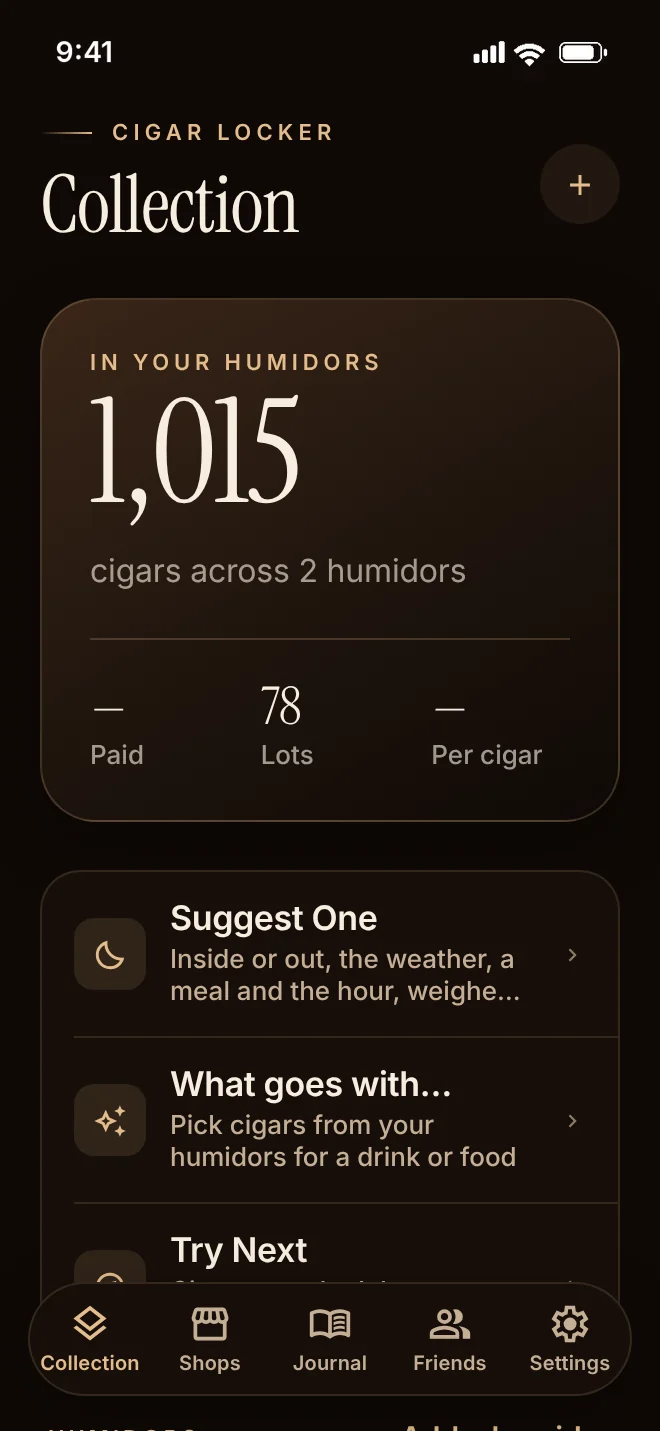
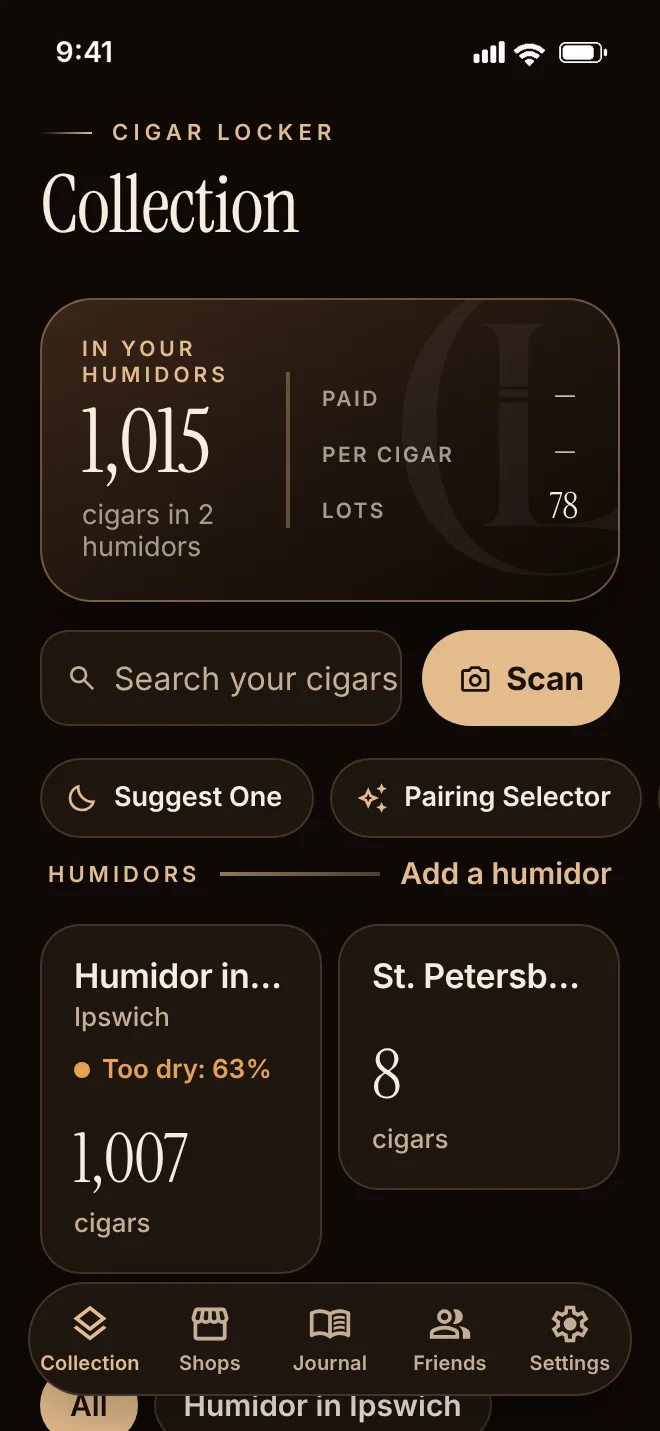
The app's pictures retaken with photos on the cigars
Claude-Session: https://claude.ai/code/session_01Cxm2QUaSCzCSzNGBt6UwNb

diff --git a/app/_expo/static/js/web/entry-5f34cbb5b40b486dd88105f8234cc167.js b/app/_expo/static/js/web/entry-5f34cbb5b40b486dd88105f8234cc167.js
@@ -17,7 +17,7 @@ __d(function(g,r,i,a,m,e,d){
    */
 "use strict";var n=Symbol.for("react.transitional.element"),t=Symbol.for("react.fragment");function o(t,o,f){var l=null;if(void 0!==f&&(l=""+f),void 0!==o.key&&(l=""+o.key),"key"in o)for(var y in f={},o)"key"!==y&&(f[y]=o[y]);else f=o;return o=f.ref,{$$typeof:n,type:t,key:l,ref:void 0!==o?o:null,props:f}}e.Fragment=t,e.jsx=o,e.jsxs=o},7,[]);
 __d(function(g,r,i,a,m,e,d){"use strict";Object.defineProperty(e,'__esModule',{value:!0}),Object.defineProperty(e,"ctx",{enumerable:!0,get:function(){return t}});const t=r(d[0])},8,[9]);
-__d(function(g,r,i,a,m,e,d){const t=Object.defineProperties({},{"./(tabs)/_layout.tsx":{enumerable:!0,get:()=>r(d[1])(d[0],d.paths)},"./(tabs)/_layout.web.tsx":{enumerable:!0,get:()=>r(d[1])(d[2],d.paths)},"./(tabs)/friends.tsx":{enumerable:!0,get:()=>r(d[1])(d[3],d.paths)},"./(tabs)/index.tsx":{enumerable:!0,get:()=>r(d[1])(d[4],d.paths)},"./(tabs)/journal.tsx":{enumerable:!0,get:()=>r(d[1])(d[5],d.paths)},"./(tabs)/settings.tsx":{enumerable:!0,get:()=>r(d[1])(d[6],d.paths)},"./(tabs)/shops.tsx":{enumerable:!0,get:()=>r(d[1])(d[7],d.paths)},"./_layout.tsx":{enumerable:!0,get:()=>r(d[1])(d[8],d.paths)},"./account.tsx":{enumerable:!0,get:()=>r(d[1])(d[9],d.paths)},"./alerts.tsx":{enumerable:!0,get:()=>r(d[1])(d[10],d.paths)},"./ask.tsx":{enumerable:!0,get:()=>r(d[1])(d[11],d.paths)},"./discover.tsx":{enumerable:!0,get:()=>r(d[1])(d[12],d.paths)},"./friends/add.tsx":{enumerable:!0,get:()=>r(d[1])(d[13],d.paths)},"./friends/blocked.tsx":{enumerable:!0,get:()=>r(d[1])(d[14],d.paths)},"./friends/chat/[id].tsx":{enumerable:!0,get:()=>r(d[1])(d[15],d.paths)},"./friends/compose.tsx":{enumerable:!0,get:()=>r(d[1])(d[16],d.paths)},"./friends/invite.tsx":{enumerable:!0,get:()=>r(d[1])(d[17],d.paths)},"./friends/member/[id].tsx":{enumerable:!0,get:()=>r(d[1])(d[18],d.paths)},"./friends/name.tsx":{enumerable:!0,get:()=>r(d[1])(d[19],d.paths)},"./friends/post/[id].tsx":{enumerable:!0,get:()=>r(d[1])(d[20],d.paths)},"./friends/privacy.tsx":{enumerable:!0,get:()=>r(d[1])(d[21],d.paths)},"./friends/reports.tsx":{enumerable:!0,get:()=>r(d[1])(d[22],d.paths)},"./friends/share.tsx":{enumerable:!0,get:()=>r(d[1])(d[23],d.paths)},"./humidor/[id].tsx":{enumerable:!0,get:()=>r(d[1])(d[24],d.paths)},"./humidor/alerts.tsx":{enumerable:!0,get:()=>r(d[1])(d[25],d.paths)},"./humidor/edit.tsx":{enumerable:!0,get:()=>r(d[1])(d[26],d.paths)},"./humidor/shelf.tsx":{enumerable:!0,get:()=>r(d[1])(d[27],d.paths)},"./humidor/sort.tsx":{enumerable:!0,get:()=>r(d[1])(d[28],d.paths)},"./import.tsx":{enumerable:!0,get:()=>r(d[1])(d[29],d.paths)},"./journal/[id].tsx":{enumerable:!0,get:()=>r(d[1])(d[30],d.paths)},"./journal/edit.tsx":{enumerable:!0,get:()=>r(d[1])(d[31],d.paths)},"./look.tsx":{enumerable:!0,get:()=>r(d[1])(d[32],d.paths)},"./lot/[id].tsx":{enumerable:!0,get:()=>r(d[1])(d[33],d.paths)},"./lot/add.tsx":{enumerable:!0,get:()=>r(d[1])(d[34],d.paths)},"./lot/edit.tsx":{enumerable:!0,get:()=>r(d[1])(d[35],d.paths)},"./lot/out.tsx":{enumerable:!0,get:()=>r(d[1])(d[36],d.paths)},"./lot/split.tsx":{enumerable:!0,get:()=>r(d[1])(d[37],d.paths)},"./pair.tsx":{enumerable:!0,get:()=>r(d[1])(d[38],d.paths)},"./places/[id].tsx":{enumerable:!0,get:()=>r(d[1])(d[39],d.paths)},"./places/index.tsx":{enumerable:!0,get:()=>r(d[1])(d[40],d.paths)},"./plus.tsx":{enumerable:!0,get:()=>r(d[1])(d[41],d.paths)},"./sensors/[id].tsx":{enumerable:!0,get:()=>r(d[1])(d[42],d.paths)},"./sensors/connect.tsx":{enumerable:!0,get:()=>r(d[1])(d[43],d.paths)},"./sensors/index.tsx":{enumerable:!0,get:()=>r(d[1])(d[44],d.paths)},"./shop/[id].tsx":{enumerable:!0,get:()=>r(d[1])(d[45],d.paths)},"./shop/edit.tsx":{enumerable:!0,get:()=>r(d[1])(d[46],d.paths)},"./signin-done.tsx":{enumerable:!0,get:()=>r(d[1])(d[47],d.paths)},"./tonight.tsx":{enumerable:!0,get:()=>r(d[1])(d[48],d.paths)},"./try/[id].tsx":{enumerable:!0,get:()=>r(d[1])(d[49],d.paths)}});function s(s){return t[s]}s.keys=function(){return Object.keys(t)},s.resolve=function(t){throw new Error('Unimplemented Metro module context functionality')},m.exports=s},9,{"0":757,"1":10,"2":758,"3":759,"4":760,"5":761,"6":762,"7":763,"8":764,"9":765,"10":766,"11":767,"12":768,"13":769,"14":770,"15":771,"16":772,"17":773,"18":774,"19":775,"20":776,"21":777,"22":778,"23":779,"24":780,"25":781,"26":782,"27":783,"28":784,"29":785,"30":786,"31":787,"32":788,"33":789,"34":790,"35":791,"36":792,"37":793,"38":794,"39":795,"40":796,"41":797,"42":798,"43":799,"44":800,"45":801,"46":802,"47":803,"48":804,"49":805,"paths":{"757":"/app/_expo/static/js/web/_layout-29e5e11c725c493f327599fdaf985fe7.js","758":"/app/_expo/static/js/web/_layout-31617c2fbf3fc0672a0670f3fabc519c.js","759":"/app/_expo/static/js/web/friends-18d5b383a1962c40c82dbb580b50ec41.js","760":"/app/_expo/static/js/web/index-aa5ddbda905d741adfa41a665b188de1.js","761":"/app/_expo/static/js/web/journal-20920f959ecdcbaaec69d12879d04522.js","762":"/app/_expo/static/js/web/settings-217f19eddc93f6afa24dd6ee27fa8c1b.js","763":"/app/_expo/static/js/web/shops-37cd5ea92ce97c5ad8da13cfe59877c6.js","764":"/app/_expo/static/js/web/_layout-1827e0884c870f043736f87d4146e442.js","765":"/app/_expo/static/js/web/account-5a4e7b4ea1002bbb3fa5e73f9ced898f.js","766":"/app/_expo/static/js/web/alerts-082656c23bc91d6b17590576695be7d9.js","767":"/app/_expo/static/js/web/ask-e3e07152e1aed89b11b88dc1b75c092a.js","768":"/app/_expo/static/js/web/discover-a37cd290b2b8efb744e4e43e506af5d7.js","769":"/app/_expo/static/js/web/add-ab2397ddad5f261c3da8a895d7153ed0.js","770":"/app/_expo/static/js/web/blocked-4acfd6004bdb795bde6ccb6474999de6.js","771":"/app/_expo/static/js/web/[id]-80d6af30118a02dc6b8e27ebe3147c3b.js","772":"/app/_expo/static/js/web/compose-9f542500f9572b5632ab936149f3f982.js","773":"/app/_expo/static/js/web/invite-38a54a54fe13c3d2b3eaebe69c666d88.js","774":"/app/_expo/static/js/web/[id]-4a159c323168e6dbb3fb4d8bf5abd766.js","775":"/app/_expo/static/js/web/name-a34114e4dadf47fb0d057d9e8ccd320d.js","776":"/app/_expo/static/js/web/[id]-dc6301ea056a8e27e7b8f5c7e1705e20.js","777":"/app/_expo/static/js/web/privacy-f6ace371ea6ef6ef6aa3f588589cc082.js","778":"/app/_expo/static/js/web/reports-72dd49c94ba2dfbed4ac87c18f86ae3f.js","779":"/app/_expo/static/js/web/share-0bb8bdf7bf291fa19513c02afa9e55c0.js","780":"/app/_expo/static/js/web/[id]-b11a7acd3bb74910254ccea6d6733c2d.js","781":"/app/_expo/static/js/web/alerts-18e297e7a48c8995e24b709336f655ee.js","782":"/app/_expo/static/js/web/edit-ec0dafc5e639e663443929ceda194ec7.js","783":"/app/_expo/static/js/web/shelf-70abf129446c8f42d4d7b7eb2446e71e.js","784":"/app/_expo/static/js/web/sort-35602c2af94e667d8b8cc90075fd9bb8.js","785":"/app/_expo/static/js/web/import-f5f38a15bd0b38640f9767f974797248.js","786":"/app/_expo/static/js/web/[id]-96628b48f7317a85774b21e778493daf.js","787":"/app/_expo/static/js/web/edit-82423be10846cbf4348a9a14b0eb0b7a.js","788":"/app/_expo/static/js/web/look-b9c1e3dae103be6a79edf1d836cf0287.js","789":"/app/_expo/static/js/web/[id]-b812e4625c8dd3e2aaa92e3786856857.js","790":"/app/_expo/static/js/web/add-7adfb94ae2b67a15776e8c6b4df857c2.js","791":"/app/_expo/static/js/web/edit-82f029b5ff4a32f5d7ad3ec955bb4c06.js","792":"/app/_expo/static/js/web/out-3349b6aa4da5d85e6ce806d4d88ecc20.js","793":"/app/_expo/static/js/web/split-0da8fef487e4c4befb6f64e7a8ce9650.js","794":"/app/_expo/static/js/web/pair-871555882e79e137f3abc7c544f6ae73.js","795":"/app/_expo/static/js/web/[id]-c56979cd74f2c3239a7a26c6d4ed1493.js","796":"/app/_expo/static/js/web/index-8de2e1a30515905ad8ea3323b6cf889e.js","797":"/app/_expo/static/js/web/plus-8547a12a527f16aa9b04892489cb7f06.js","798":"/app/_expo/static/js/web/[id]-0e4a348423b8f1473cc794727733a7cf.js","799":"/app/_expo/static/js/web/connect-f6743d3e7248dc53b1b62778db4d0c7b.js","800":"/app/_expo/static/js/web/index-ea4a2ccf23d793563039e5afa4eb07e7.js","801":"/app/_expo/static/js/web/[id]-b5355cd8e0ac2bb4c6f1ab0a840b8c48.js","802":"/app/_expo/static/js/web/edit-52c1d029d3240f5853f47d09ca363291.js","803":"/app/_expo/static/js/web/signin-done-d2e298ab000dd5ebc1f0550ae2f8cd55.js","804":"/app/_expo/static/js/web/tonight-f74b8044ee16405978be700c05337c88.js","805":"/app/_expo/static/js/web/[id]-bfaba3379af32b383511472c64e76f1e.js"}});
+__d(function(g,r,i,a,m,e,d){const t=Object.defineProperties({},{"./(tabs)/_layout.tsx":{enumerable:!0,get:()=>r(d[1])(d[0],d.paths)},"./(tabs)/_layout.web.tsx":{enumerable:!0,get:()=>r(d[1])(d[2],d.paths)},"./(tabs)/friends.tsx":{enumerable:!0,get:()=>r(d[1])(d[3],d.paths)},"./(tabs)/index.tsx":{enumerable:!0,get:()=>r(d[1])(d[4],d.paths)},"./(tabs)/journal.tsx":{enumerable:!0,get:()=>r(d[1])(d[5],d.paths)},"./(tabs)/settings.tsx":{enumerable:!0,get:()=>r(d[1])(d[6],d.paths)},"./(tabs)/shops.tsx":{enumerable:!0,get:()=>r(d[1])(d[7],d.paths)},"./_layout.tsx":{enumerable:!0,get:()=>r(d[1])(d[8],d.paths)},"./account.tsx":{enumerable:!0,get:()=>r(d[1])(d[9],d.paths)},"./alerts.tsx":{enumerable:!0,get:()=>r(d[1])(d[10],d.paths)},"./ask.tsx":{enumerable:!0,get:()=>r(d[1])(d[11],d.paths)},"./discover.tsx":{enumerable:!0,get:()=>r(d[1])(d[12],d.paths)},"./friends/add.tsx":{enumerable:!0,get:()=>r(d[1])(d[13],d.paths)},"./friends/blocked.tsx":{enumerable:!0,get:()=>r(d[1])(d[14],d.paths)},"./friends/chat/[id].tsx":{enumerable:!0,get:()=>r(d[1])(d[15],d.paths)},"./friends/compose.tsx":{enumerable:!0,get:()=>r(d[1])(d[16],d.paths)},"./friends/invite.tsx":{enumerable:!0,get:()=>r(d[1])(d[17],d.paths)},"./friends/member/[id].tsx":{enumerable:!0,get:()=>r(d[1])(d[18],d.paths)},"./friends/name.tsx":{enumerable:!0,get:()=>r(d[1])(d[19],d.paths)},"./friends/post/[id].tsx":{enumerable:!0,get:()=>r(d[1])(d[20],d.paths)},"./friends/privacy.tsx":{enumerable:!0,get:()=>r(d[1])(d[21],d.paths)},"./friends/reports.tsx":{enumerable:!0,get:()=>r(d[1])(d[22],d.paths)},"./friends/share.tsx":{enumerable:!0,get:()=>r(d[1])(d[23],d.paths)},"./humidor/[id].tsx":{enumerable:!0,get:()=>r(d[1])(d[24],d.paths)},"./humidor/alerts.tsx":{enumerable:!0,get:()=>r(d[1])(d[25],d.paths)},"./humidor/edit.tsx":{enumerable:!0,get:()=>r(d[1])(d[26],d.paths)},"./humidor/shelf.tsx":{enumerable:!0,get:()=>r(d[1])(d[27],d.paths)},"./humidor/sort.tsx":{enumerable:!0,get:()=>r(d[1])(d[28],d.paths)},"./import.tsx":{enumerable:!0,get:()=>r(d[1])(d[29],d.paths)},"./journal/[id].tsx":{enumerable:!0,get:()=>r(d[1])(d[30],d.paths)},"./journal/edit.tsx":{enumerable:!0,get:()=>r(d[1])(d[31],d.paths)},"./look.tsx":{enumerable:!0,get:()=>r(d[1])(d[32],d.paths)},"./lot/[id].tsx":{enumerable:!0,get:()=>r(d[1])(d[33],d.paths)},"./lot/add.tsx":{enumerable:!0,get:()=>r(d[1])(d[34],d.paths)},"./lot/edit.tsx":{enumerable:!0,get:()=>r(d[1])(d[35],d.paths)},"./lot/out.tsx":{enumerable:!0,get:()=>r(d[1])(d[36],d.paths)},"./lot/split.tsx":{enumerable:!0,get:()=>r(d[1])(d[37],d.paths)},"./pair.tsx":{enumerable:!0,get:()=>r(d[1])(d[38],d.paths)},"./places/[id].tsx":{enumerable:!0,get:()=>r(d[1])(d[39],d.paths)},"./places/index.tsx":{enumerable:!0,get:()=>r(d[1])(d[40],d.paths)},"./plus.tsx":{enumerable:!0,get:()=>r(d[1])(d[41],d.paths)},"./sensors/[id].tsx":{enumerable:!0,get:()=>r(d[1])(d[42],d.paths)},"./sensors/connect.tsx":{enumerable:!0,get:()=>r(d[1])(d[43],d.paths)},"./sensors/index.tsx":{enumerable:!0,get:()=>r(d[1])(d[44],d.paths)},"./shop/[id].tsx":{enumerable:!0,get:()=>r(d[1])(d[45],d.paths)},"./shop/edit.tsx":{enumerable:!0,get:()=>r(d[1])(d[46],d.paths)},"./signin-done.tsx":{enumerable:!0,get:()=>r(d[1])(d[47],d.paths)},"./tonight.tsx":{enumerable:!0,get:()=>r(d[1])(d[48],d.paths)},"./try/[id].tsx":{enumerable:!0,get:()=>r(d[1])(d[49],d.paths)}});function s(s){return t[s]}s.keys=function(){return Object.keys(t)},s.resolve=function(t){throw new Error('Unimplemented Metro module context functionality')},m.exports=s},9,{"0":757,"1":10,"2":758,"3":759,"4":760,"5":761,"6":762,"7":763,"8":764,"9":765,"10":766,"11":767,"12":768,"13":769,"14":770,"15":771,"16":772,"17":773,"18":774,"19":775,"20":776,"21":777,"22":778,"23":779,"24":780,"25":781,"26":782,"27":783,"28":784,"29":785,"30":786,"31":787,"32":788,"33":789,"34":790,"35":791,"36":792,"37":793,"38":794,"39":795,"40":796,"41":797,"42":798,"43":799,"44":800,"45":801,"46":802,"47":803,"48":804,"49":805,"paths":{"757":"/app/_expo/static/js/web/_layout-90d2cd064728e8caef8dd4faaf07dc4c.js","758":"/app/_expo/static/js/web/_layout-31617c2fbf3fc0672a0670f3fabc519c.js","759":"/app/_expo/static/js/web/friends-18d5b383a1962c40c82dbb580b50ec41.js","760":"/app/_expo/static/js/web/index-aa5ddbda905d741adfa41a665b188de1.js","761":"/app/_expo/static/js/web/journal-20920f959ecdcbaaec69d12879d04522.js","762":"/app/_expo/static/js/web/settings-217f19eddc93f6afa24dd6ee27fa8c1b.js","763":"/app/_expo/static/js/web/shops-37cd5ea92ce97c5ad8da13cfe59877c6.js","764":"/app/_expo/static/js/web/_layout-1827e0884c870f043736f87d4146e442.js","765":"/app/_expo/static/js/web/account-5a4e7b4ea1002bbb3fa5e73f9ced898f.js","766":"/app/_expo/static/js/web/alerts-082656c23bc91d6b17590576695be7d9.js","767":"/app/_expo/static/js/web/ask-e3e07152e1aed89b11b88dc1b75c092a.js","768":"/app/_expo/static/js/web/discover-a37cd290b2b8efb744e4e43e506af5d7.js","769":"/app/_expo/static/js/web/add-ab2397ddad5f261c3da8a895d7153ed0.js","770":"/app/_expo/static/js/web/blocked-4acfd6004bdb795bde6ccb6474999de6.js","771":"/app/_expo/static/js/web/[id]-80d6af30118a02dc6b8e27ebe3147c3b.js","772":"/app/_expo/static/js/web/compose-9f542500f9572b5632ab936149f3f982.js","773":"/app/_expo/static/js/web/invite-38a54a54fe13c3d2b3eaebe69c666d88.js","774":"/app/_expo/static/js/web/[id]-4a159c323168e6dbb3fb4d8bf5abd766.js","775":"/app/_expo/static/js/web/name-a34114e4dadf47fb0d057d9e8ccd320d.js","776":"/app/_expo/static/js/web/[id]-dc6301ea056a8e27e7b8f5c7e1705e20.js","777":"/app/_expo/static/js/web/privacy-f6ace371ea6ef6ef6aa3f588589cc082.js","778":"/app/_expo/static/js/web/reports-72dd49c94ba2dfbed4ac87c18f86ae3f.js","779":"/app/_expo/static/js/web/share-0bb8bdf7bf291fa19513c02afa9e55c0.js","780":"/app/_expo/static/js/web/[id]-b11a7acd3bb74910254ccea6d6733c2d.js","781":"/app/_expo/static/js/web/alerts-18e297e7a48c8995e24b709336f655ee.js","782":"/app/_expo/static/js/web/edit-ec0dafc5e639e663443929ceda194ec7.js","783":"/app/_expo/static/js/web/shelf-70abf129446c8f42d4d7b7eb2446e71e.js","784":"/app/_expo/static/js/web/sort-35602c2af94e667d8b8cc90075fd9bb8.js","785":"/app/_expo/static/js/web/import-f5f38a15bd0b38640f9767f974797248.js","786":"/app/_expo/static/js/web/[id]-96628b48f7317a85774b21e778493daf.js","787":"/app/_expo/static/js/web/edit-82423be10846cbf4348a9a14b0eb0b7a.js","788":"/app/_expo/static/js/web/look-b9c1e3dae103be6a79edf1d836cf0287.js","789":"/app/_expo/static/js/web/[id]-b812e4625c8dd3e2aaa92e3786856857.js","790":"/app/_expo/static/js/web/add-7adfb94ae2b67a15776e8c6b4df857c2.js","791":"/app/_expo/static/js/web/edit-82f029b5ff4a32f5d7ad3ec955bb4c06.js","792":"/app/_expo/static/js/web/out-3349b6aa4da5d85e6ce806d4d88ecc20.js","793":"/app/_expo/static/js/web/split-0da8fef487e4c4befb6f64e7a8ce9650.js","794":"/app/_expo/static/js/web/pair-871555882e79e137f3abc7c544f6ae73.js","795":"/app/_expo/static/js/web/[id]-c56979cd74f2c3239a7a26c6d4ed1493.js","796":"/app/_expo/static/js/web/index-8de2e1a30515905ad8ea3323b6cf889e.js","797":"/app/_expo/static/js/web/plus-8547a12a527f16aa9b04892489cb7f06.js","798":"/app/_expo/static/js/web/[id]-0e4a348423b8f1473cc794727733a7cf.js","799":"/app/_expo/static/js/web/connect-f6743d3e7248dc53b1b62778db4d0c7b.js","800":"/app/_expo/static/js/web/index-ea4a2ccf23d793563039e5afa4eb07e7.js","801":"/app/_expo/static/js/web/[id]-b5355cd8e0ac2bb4c6f1ab0a840b8c48.js","802":"/app/_expo/static/js/web/edit-52c1d029d3240f5853f47d09ca363291.js","803":"/app/_expo/static/js/web/signin-done-d2e298ab000dd5ebc1f0550ae2f8cd55.js","804":"/app/_expo/static/js/web/tonight-f74b8044ee16405978be700c05337c88.js","805":"/app/_expo/static/js/web/[id]-bfaba3379af32b383511472c64e76f1e.js"}});
 __d(function(g,r,i,a,m,e,d){m.exports=r(d[0])},10,[11]);
 __d(function(g,r,i,a,m,e,d){function n(n,t){const o=globalThis[`${__METRO_GLOBAL_PREFIX__??''}__loadBundleAsync`];if(null!=o){const s=String(n);if(null!=t){const n=t[s];if(null!=n)return o(n)}}}function t(t,o,s){const u=()=>r.importAll(t,s);{const l=o?.[String(t)];if(Array.isArray(l)){const c=globalThis[`${__METRO_GLOBAL_PREFIX__??''}__loadBundleAsync`];if(c?.isReady?.(l))return u();const f=n(t,o);if(null!=f)return f.then(u);throw new Error(`Cannot import module ${s??t}: the async bundle loader is unavailable. Load the initial Expo bundle before importing these chunks: ${l.join(', ')}`)}try{return u()}catch(s){const l=n(t,o);if(null!=l)return l.then(u);throw s}}const l=n(t,o);return null!=l?l.then(u):u()}function o(n,o,s){const u=t(n,o,s),l=Promise.resolve(u);return l._result=u,l}o.unstable_importMaybeSync=function(n,o){return t(n,o)},o.prefetch=function(t,o,s){n(t,o)?.then(()=>{},()=>{})},o.unstable_resolve=function(n,t){if(!t)throw new Error('Bundle splitting is required for Web Worker imports');const o=t[n];if(!o)throw new Error('Worker import is missing from split bundle paths: '+o);return o},o.unstable_createWorker=function(n,t){if('undefined'==typeof crossOriginIsolated||!crossOriginIsolated)return new Worker(n,t);try{const s=(o=n,`\n    const ASYNC_WORKER_BASE = ${JSON.stringify(o)};\n    const IMPORT_SCRIPTS = importScripts;\n    const FETCH = fetch;\n    const fromBaseURL = (input) => new URL(input, ASYNC_WORKER_BASE).href;\n    self.fetch = function(input, init) {\n      return FETCH(typeof input === 'string' ? fromBaseURL(input) : input, init);\n    };\n    self.importScripts = function(...urls) {\n      return IMPORT_SCRIPTS.apply(self, urls.map(fromBaseURL));\n    };\n    importScripts(ASYNC_WORKER_BASE);\n  `);return n=URL.createObjectURL(new Blob([s],{type:'text/javascript'})),new Worker(n,t)}finally{URL.revokeObjectURL(n)}var o},m.exports=o},11,[]);
 __d(function(g,r,i,a,m,e,d){'use strict';m.exports=r(d[0])},12,[13]);

diff --git a/app/_expo/static/js/web/_layout-90d2cd064728e8caef8dd4faaf07dc4c.js b/app/_expo/static/js/web/_layout-90d2cd064728e8caef8dd4faaf07dc4c.js
@@ -23,42 +23,42 @@ __d(function(g,r,i,a,m,e,d){"use strict";var t,n=Object.create,o=Object.definePr
 __d(function(g,r,_i,a,m,e,d){"use strict";var n,t=Object.create,o=Object.defineProperty,u=Object.getOwnPropertyDescriptor,i=Object.getOwnPropertyNames,c=Object.getPrototypeOf,s=Object.prototype.hasOwnProperty,l=(n,t)=>o(n,"name",{value:t,configurable:!0}),f=(n,t,c,l)=>{if(t&&"object"==typeof t||"function"==typeof t)for(let f of i(t))s.call(n,f)||f===c||o(n,f,{get:()=>t[f],enumerable:!(l=u(t,f))||l.enumerable});return n},p=(n,u,i)=>(i=null!=n?t(c(n)):{},f(!u&&n&&n.__esModule?i:o(i,"default",{value:n,enumerable:!0}),n)),O={};((n,t)=>{for(var u in t)o(n,u,{get:t[u],enumerable:!0})})(O,{Presence:()=>b,Root:()=>b}),m.exports=(n=O,f(o({},"__esModule",{value:!0}),n));var N=p(r(d[0])),y=r(d[1]),v=p(r(d[0]));function M(n,t){return v.useReducer((n,o)=>t[n][o]??n,n)}l(M,"useStateMachine");var b=l(n=>{const{present:t,children:o}=n,u=E(t),i="function"==typeof o?o({present:u.isPresent}):N.Children.only(o),c=R(u.ref,P(i));return"function"==typeof o||u.isPresent?N.cloneElement(i,{ref:c}):null},"Presence");function E(n){const[t,o]=N.useState(),u=N.useRef(null),i=N.useRef(n),c=N.useRef("none"),s=N.useRef(void 0),f=n?"mounted":"unmounted",[p,O]=M(f,{mounted:{UNMOUNT:"unmounted",ANIMATION_OUT:"unmountSuspended"},unmountSuspended:{MOUNT:"mounted",ANIMATION_END:"unmounted"},unmounted:{MOUNT:"mounted"}});return N.useEffect(()=>{"mounted"===p?(c.current=s.current??A(u.current),s.current=void 0):c.current="none"},[p]),(0,y.useLayoutEffect)(()=>{const t=u.current,o=i.current;if(o!==n){const u=c.current,l=A(t);if(n)s.current=l,O("MOUNT");else if("none"===l||"none"===t?.display)O("UNMOUNT");else{O(o&&u!==l?"ANIMATION_OUT":"UNMOUNT")}i.current=n}},[n,O]),(0,y.useLayoutEffect)(()=>{if(t){let n;const o=t.ownerDocument.defaultView??window,s=l(c=>{const s=A(u.current).includes(CSS.escape(c.animationName));if(c.target===t&&s&&(O("ANIMATION_END"),!i.current)){const u=t.style.animationFillMode;t.style.animationFillMode="forwards",n=o.setTimeout(()=>{"forwards"===t.style.animationFillMode&&(t.style.animationFillMode=u)})}},"handleAnimationEnd"),f=l(n=>{n.target===t&&(c.current=A(u.current))},"handleAnimationStart");return t.addEventListener("animationstart",f),t.addEventListener("animationcancel",s),t.addEventListener("animationend",s),()=>{o.clearTimeout(n),t.removeEventListener("animationstart",f),t.removeEventListener("animationcancel",s),t.removeEventListener("animationend",s)}}O("ANIMATION_END")},[t,O]),{isPresent:["mounted","unmountSuspended"].includes(p),ref:N.useCallback(n=>{if(n){const t=getComputedStyle(n);u.current=t,s.current=A(t)}else u.current=null;o(n)},[])}}function T(n,t){if("function"==typeof n)return n(t);null!=n&&(n.current=t)}function R(...n){const t=N.useRef(n);return t.current=n,N.useCallback(n=>{const o=t.current;let u=!1;const i=o.map(t=>{const o=T(t,n);return u||"function"!=typeof o||(u=!0),o});if(u)return()=>{for(let n=0;n<i.length;n++){const t=i[n];"function"==typeof t?t():T(o[n],null)}}},[])}function A(n){return n?.animationName||"none"}function P(n){let t=Object.getOwnPropertyDescriptor(n.props,"ref")?.get,o=t&&"isReactWarning"in t&&t.isReactWarning;return o?n.ref:(t=Object.getOwnPropertyDescriptor(n,"ref")?.get,o=t&&"isReactWarning"in t&&t.isReactWarning,o?n.props.ref:n.props.ref||n.ref)}l(E,"usePresence"),l(T,"setRef"),l(R,"useStableComposedRefs"),l(A,"getAnimationName"),l(P,"getElementRef")},827,[12,818]);
 __d(function (global, require, _$$_IMPORT_DEFAULT, _$$_IMPORT_ALL, module, exports, dependencyMap) {
   module.exports = Object.assign({
-    "nativeTabsContainer": "EFtDwW_nativeTabsContainer",
-    "tabContent": "EFtDwW_tabContent",
-    "tabText": "EFtDwW_tabText",
+    "navigationMenuRoot": "EFtDwW_navigationMenuRoot",
     "tabBadge": "EFtDwW_tabBadge",
-    "emptyTabBadge": "EFtDwW_emptyTabBadge",
+    "tabContent": "EFtDwW_tabContent",
+    "nativeTabsContainer": "EFtDwW_nativeTabsContainer",
     "navigationMenuTrigger": "EFtDwW_navigationMenuTrigger",
-    "navigationMenuRoot": "EFtDwW_navigationMenuRoot"
+    "tabText": "EFtDwW_tabText",
+    "emptyTabBadge": "EFtDwW_emptyTabBadge"
   }, {
     unstable_styles: {
-      "nativeTabsContainer": {
+      "navigationMenuRoot": {
         "$$css": true,
-        "_": "EFtDwW_nativeTabsContainer"
-      },
-      "tabContent": {
-        "$$css": true,
-        "_": "EFtDwW_tabContent"
-      },
-      "tabText": {
-        "$$css": true,
-        "_": "EFtDwW_tabText"
+        "_": "EFtDwW_navigationMenuRoot"
       },
       "tabBadge": {
         "$$css": true,
         "_": "EFtDwW_tabBadge"
       },
-      "emptyTabBadge": {
+      "tabContent": {
         "$$css": true,
-        "_": "EFtDwW_emptyTabBadge"
+        "_": "EFtDwW_tabContent"
+      },
+      "nativeTabsContainer": {
+        "$$css": true,
+        "_": "EFtDwW_nativeTabsContainer"
       },
       "navigationMenuTrigger": {
         "$$css": true,
         "_": "EFtDwW_navigationMenuTrigger"
       },
-      "navigationMenuRoot": {
+      "tabText": {
         "$$css": true,
-        "_": "EFtDwW_navigationMenuRoot"
+        "_": "EFtDwW_tabText"
+      },
+      "emptyTabBadge": {
+        "$$css": true,
+        "_": "EFtDwW_emptyTabBadge"
       }
     }
   }, {});

diff --git a/app/index.html b/app/index.html
@@ -33,6 +33,6 @@
     <!-- The root element for your Expo app. -->
     <div id="root"></div>
   
-<script src="/app/start.js" data-scripts='["/app/_expo/static/js/web/__expo-metro-runtime-8c088df87a31e4e6accd81c554ec290d.js","/app/_expo/static/js/web/__common-c300e011634b47f8b21de3099e733599.js","/app/_expo/static/js/web/entry-682dc6deffea229b7c362fa220bf1ef8.js"]'></script>
+<script src="/app/start.js" data-scripts='["/app/_expo/static/js/web/__expo-metro-runtime-8c088df87a31e4e6accd81c554ec290d.js","/app/_expo/static/js/web/__common-c300e011634b47f8b21de3099e733599.js","/app/_expo/static/js/web/entry-5f34cbb5b40b486dd88105f8234cc167.js"]'></script>
 </body>
 </html>

diff --git a/assets/photos/CREDITS.md b/assets/photos/CREDITS.md
@@ -25,3 +25,17 @@ word: the bundles were used "too many times", at the top and in the home
 screen already), is a single cigar on a wooden bar by Cesar
 (https://www.pexels.com/photo/macro-shot-of-cigar-on-a-wooden-surface-10233497/),
 cropped below its band so no brand shows.
+
+The cigars' own photos on the home screens (`../screens/home-*.webp`, and
+the humidor page), put in on his word on 2026-11-03 ("Can you put photos
+in these"): the demo's cigars had none, since his own stay private. Each was
+given one of these in the browser preview through the app's own "Add a
+photo", cropped so no band, label or person shows:
+
+| Shows | Photographer | Source |
+|---|---|---|
+| Cigars in their wooden molds (two crops) | Thibault Luycx | https://www.pexels.com/photo/3975066/ |
+| A bundle of cigars on a bench by the press (two crops) | Thibault Luycx | https://www.pexels.com/photo/3975055/ |
+| A pile of cigars on a bench, the worker cropped out | Thibault Luycx | https://www.pexels.com/photo/3975064/ |
+| Paper-banded bundles, end on | Thibault Luycx | https://www.pexels.com/photo/stacks-of-raw-packed-cigars-in-fabric-3975067/ |
+| A single cigar on a wooden bar, below its band (two crops) | Cesar | https://www.pexels.com/photo/macro-shot-of-cigar-on-a-wooden-surface-10233497/ |
